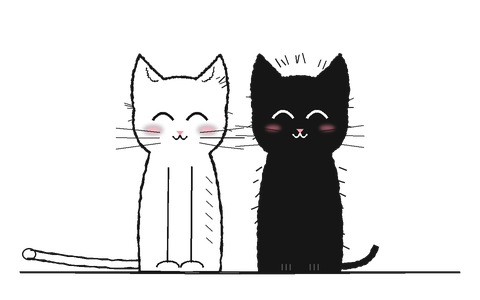
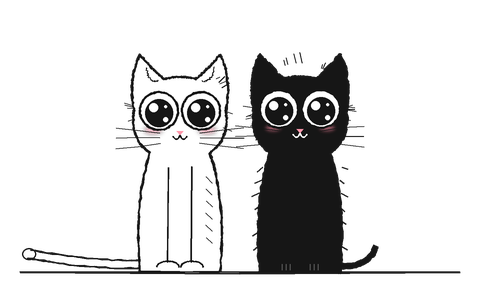
알파: 완료창 고양이 눈을 크고 동그란 반짝이 눈으로 변경

diff --git a/scripts/draw_black_cat.py b/scripts/draw_black_cat.py
@@ -1,6 +1,6 @@
 """완료창 고양이 그림(resources/black_cat.png)을 그린다. 외부 그림 없이 직접 그려 저작권 걱정이 없다.
 
-화풍: 펜으로 그린 스케치(떨리는 선을 여러 번 겹침), 큰 동그란 눈, 나란히 앉아 귀엽게 웃는 흰 고양이와 검은 고양이(반달 눈·ω 입·볼 홍조),
+화풍: 펜으로 그린 스케치(떨리는 선을 여러 번 겹침), 큰 동그란 눈, 나란히 앉아 귀엽게 웃는 흰 고양이와 검은 고양이(크고 동그란 눈·ω 입·볼 홍조),
 바닥을 따라 길게 뻗은 꼬리(2026-10-11 사용자 요청 화풍). 같은 결과가 나오도록 난수 씨앗을 고정한다.
 사용: .venv\\Scripts\\python.exe scripts\\draw_black_cat.py
 """
@@ -97,7 +97,7 @@ BLUSH = (255, 140, 165, 150)
 
 
 def smile_face(img, cx, cy, line):
-    """귀엽게 웃는 얼굴: 반달 눈(^ ^), ω 입, 볼 홍조. line은 선 색(흰 고양이는 먹색, 검은 고양이는 흰색)."""
+    """귀엽게 웃는 얼굴: 크고 동그란 눈(반짝이), ω 입, 볼 홍조. line은 선 색(흰 고양이는 먹색, 검은 고양이는 흰색)."""
     from PIL import ImageFilter
     blush = Image.new("RGBA", img.size, (0, 0, 0, 0))
     bd = ImageDraw.Draw(blush)
@@ -105,9 +105,14 @@ def smile_face(img, cx, cy, line):
         bd.ellipse([P(bx - 9, cy + 9), P(bx + 9, cy + 17)], fill=BLUSH)
     img.alpha_composite(blush.filter(ImageFilter.GaussianBlur(2.2 * S)))
     d = ImageDraw.Draw(img)
-    for ex in (cx - 17, cx + 17):                  # 웃는 눈: 위로 볼록한 반달
-        pts = curve((ex - 10, cy + 3), (ex, cy - 11), (ex + 10, cy + 3))
-        d.line([P(x, y) for x, y in pts], fill=line, width=round(2.6 * S), joint="curve")
+    for ex in (cx - 21, cx + 21):                  # 크고 동그란 눈: 흰자 + 큰 눈동자 + 반짝이 세 개
+        ey = cy - 6
+        d.ellipse([P(ex - 19, ey - 19), P(ex + 19, ey + 19)], fill=PAPER)
+        stroke(d, ellipse_pts(ex, ey, 19, 19), width=1.9, passes=2, amount=0.5)
+        d.ellipse([P(ex - 14, ey - 12), P(ex + 14, ey + 16)], fill=INK)
+        d.ellipse([P(ex - 10, ey - 8), P(ex - 1, ey + 1)], fill=PAPER)
+        d.ellipse([P(ex + 4, ey + 6), P(ex + 9, ey + 11)], fill=PAPER)
+        d.ellipse([P(ex + 5, ey - 6), P(ex + 8, ey - 3)], fill=PAPER)
     d.polygon([P(cx - 3.5, cy + 14), P(cx + 3.5, cy + 14), P(cx, cy + 18)], fill=(255, 150, 170, 255))   # 분홍 코
     for side in (-1, 1):                           # ω 입
         pts = curve((cx, cy + 18), (cx + side * 3, cy + 26), (cx + side * 7, cy + 19))
